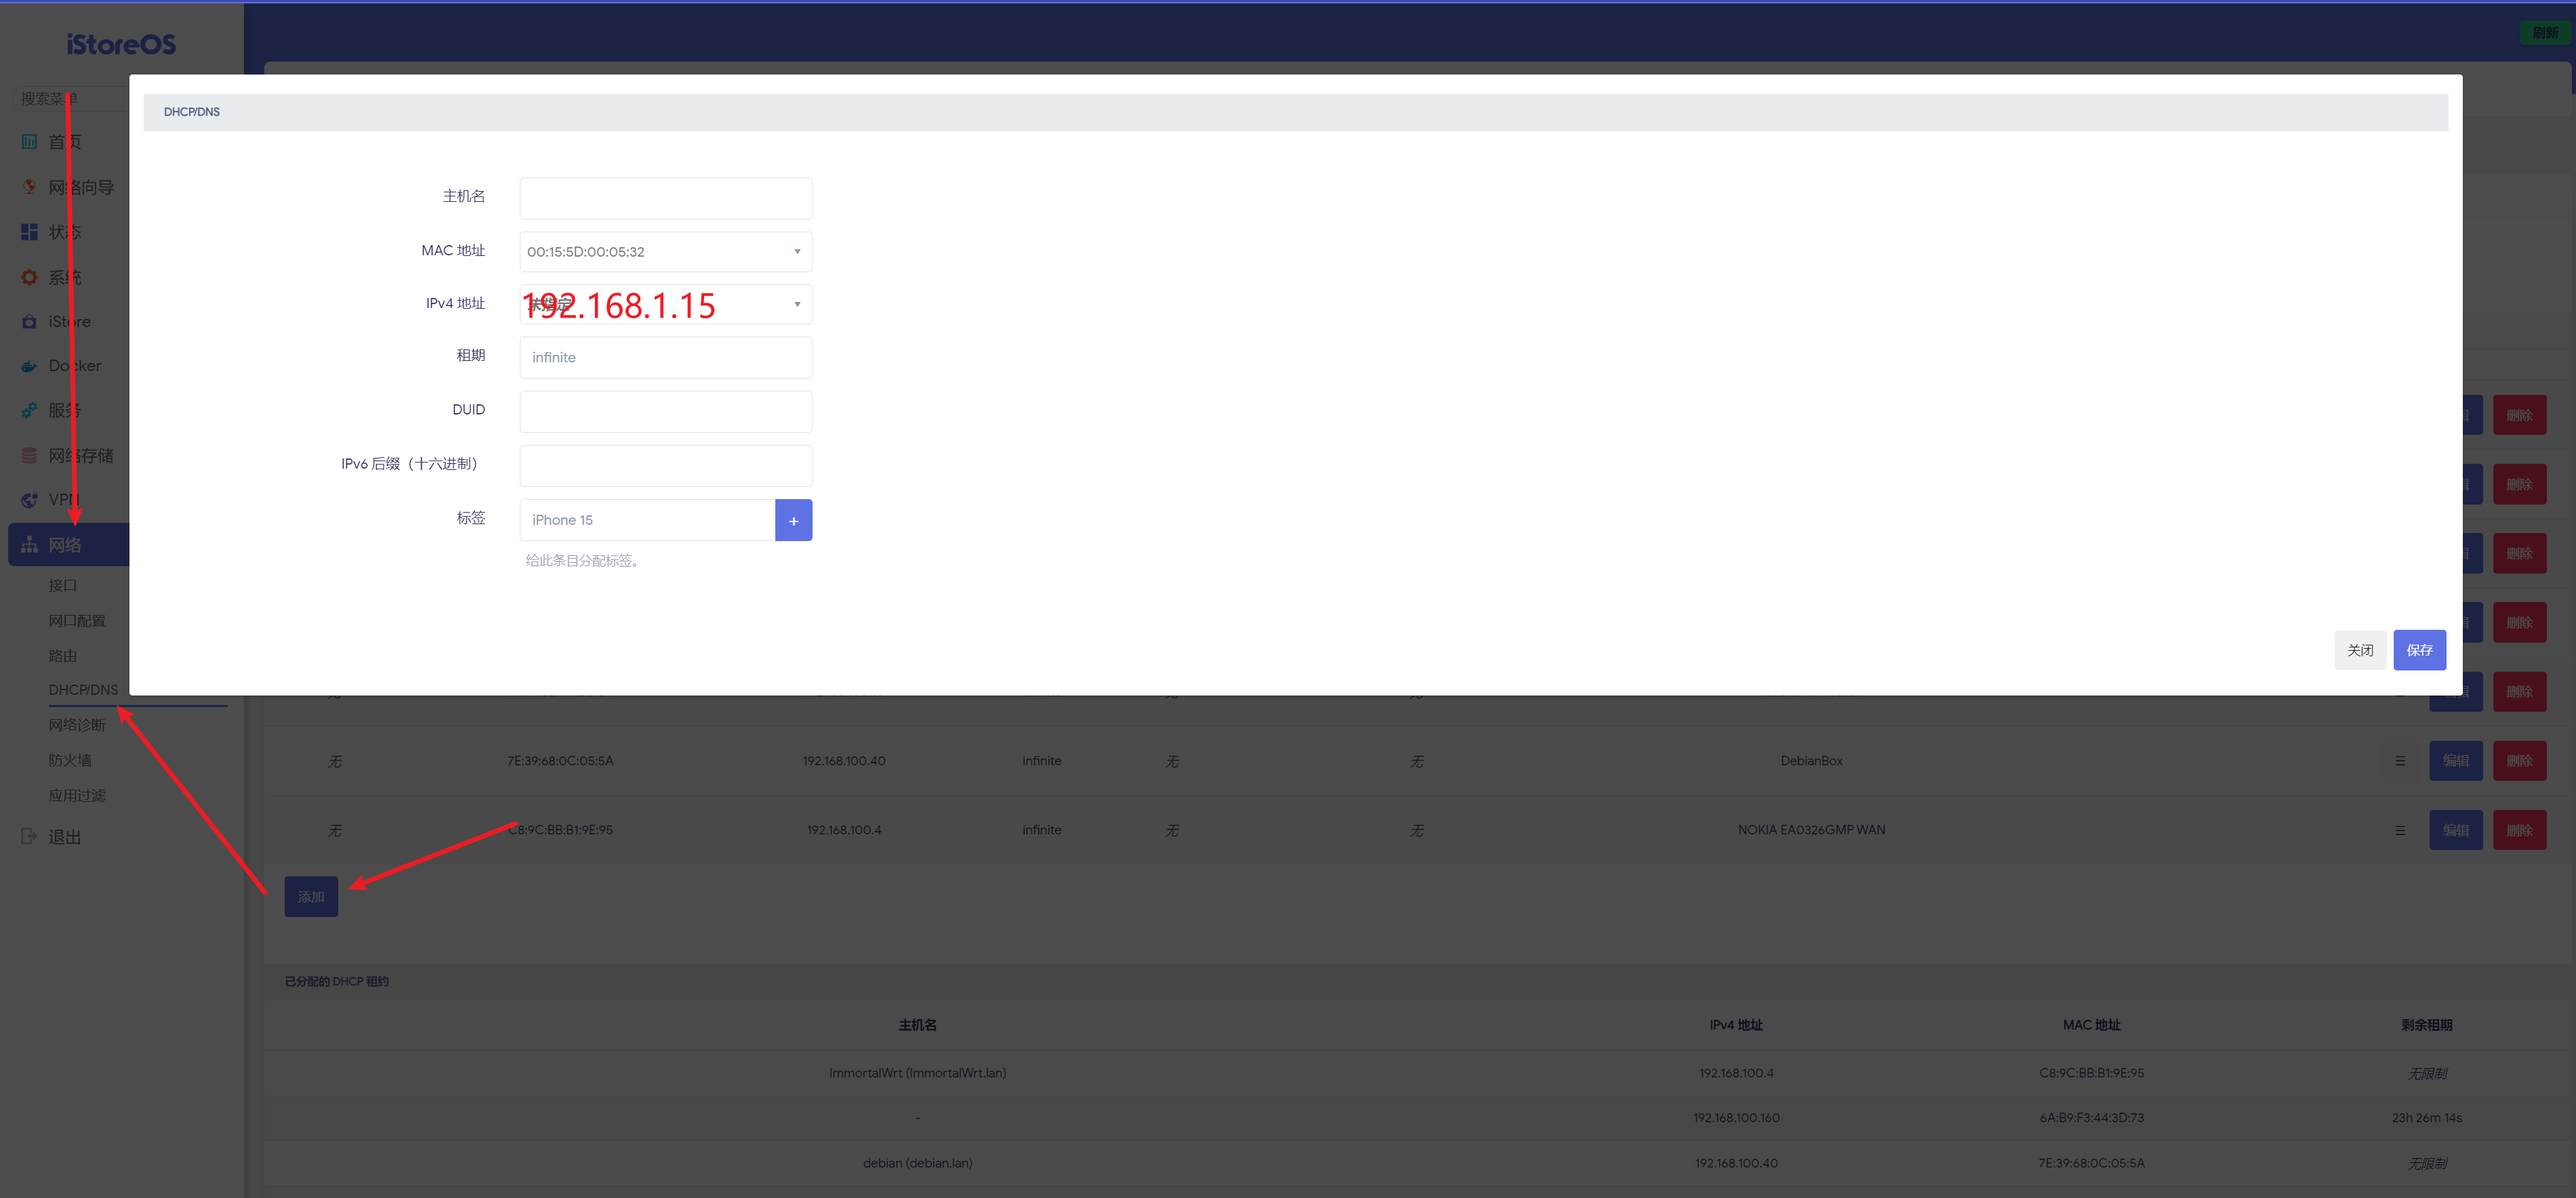
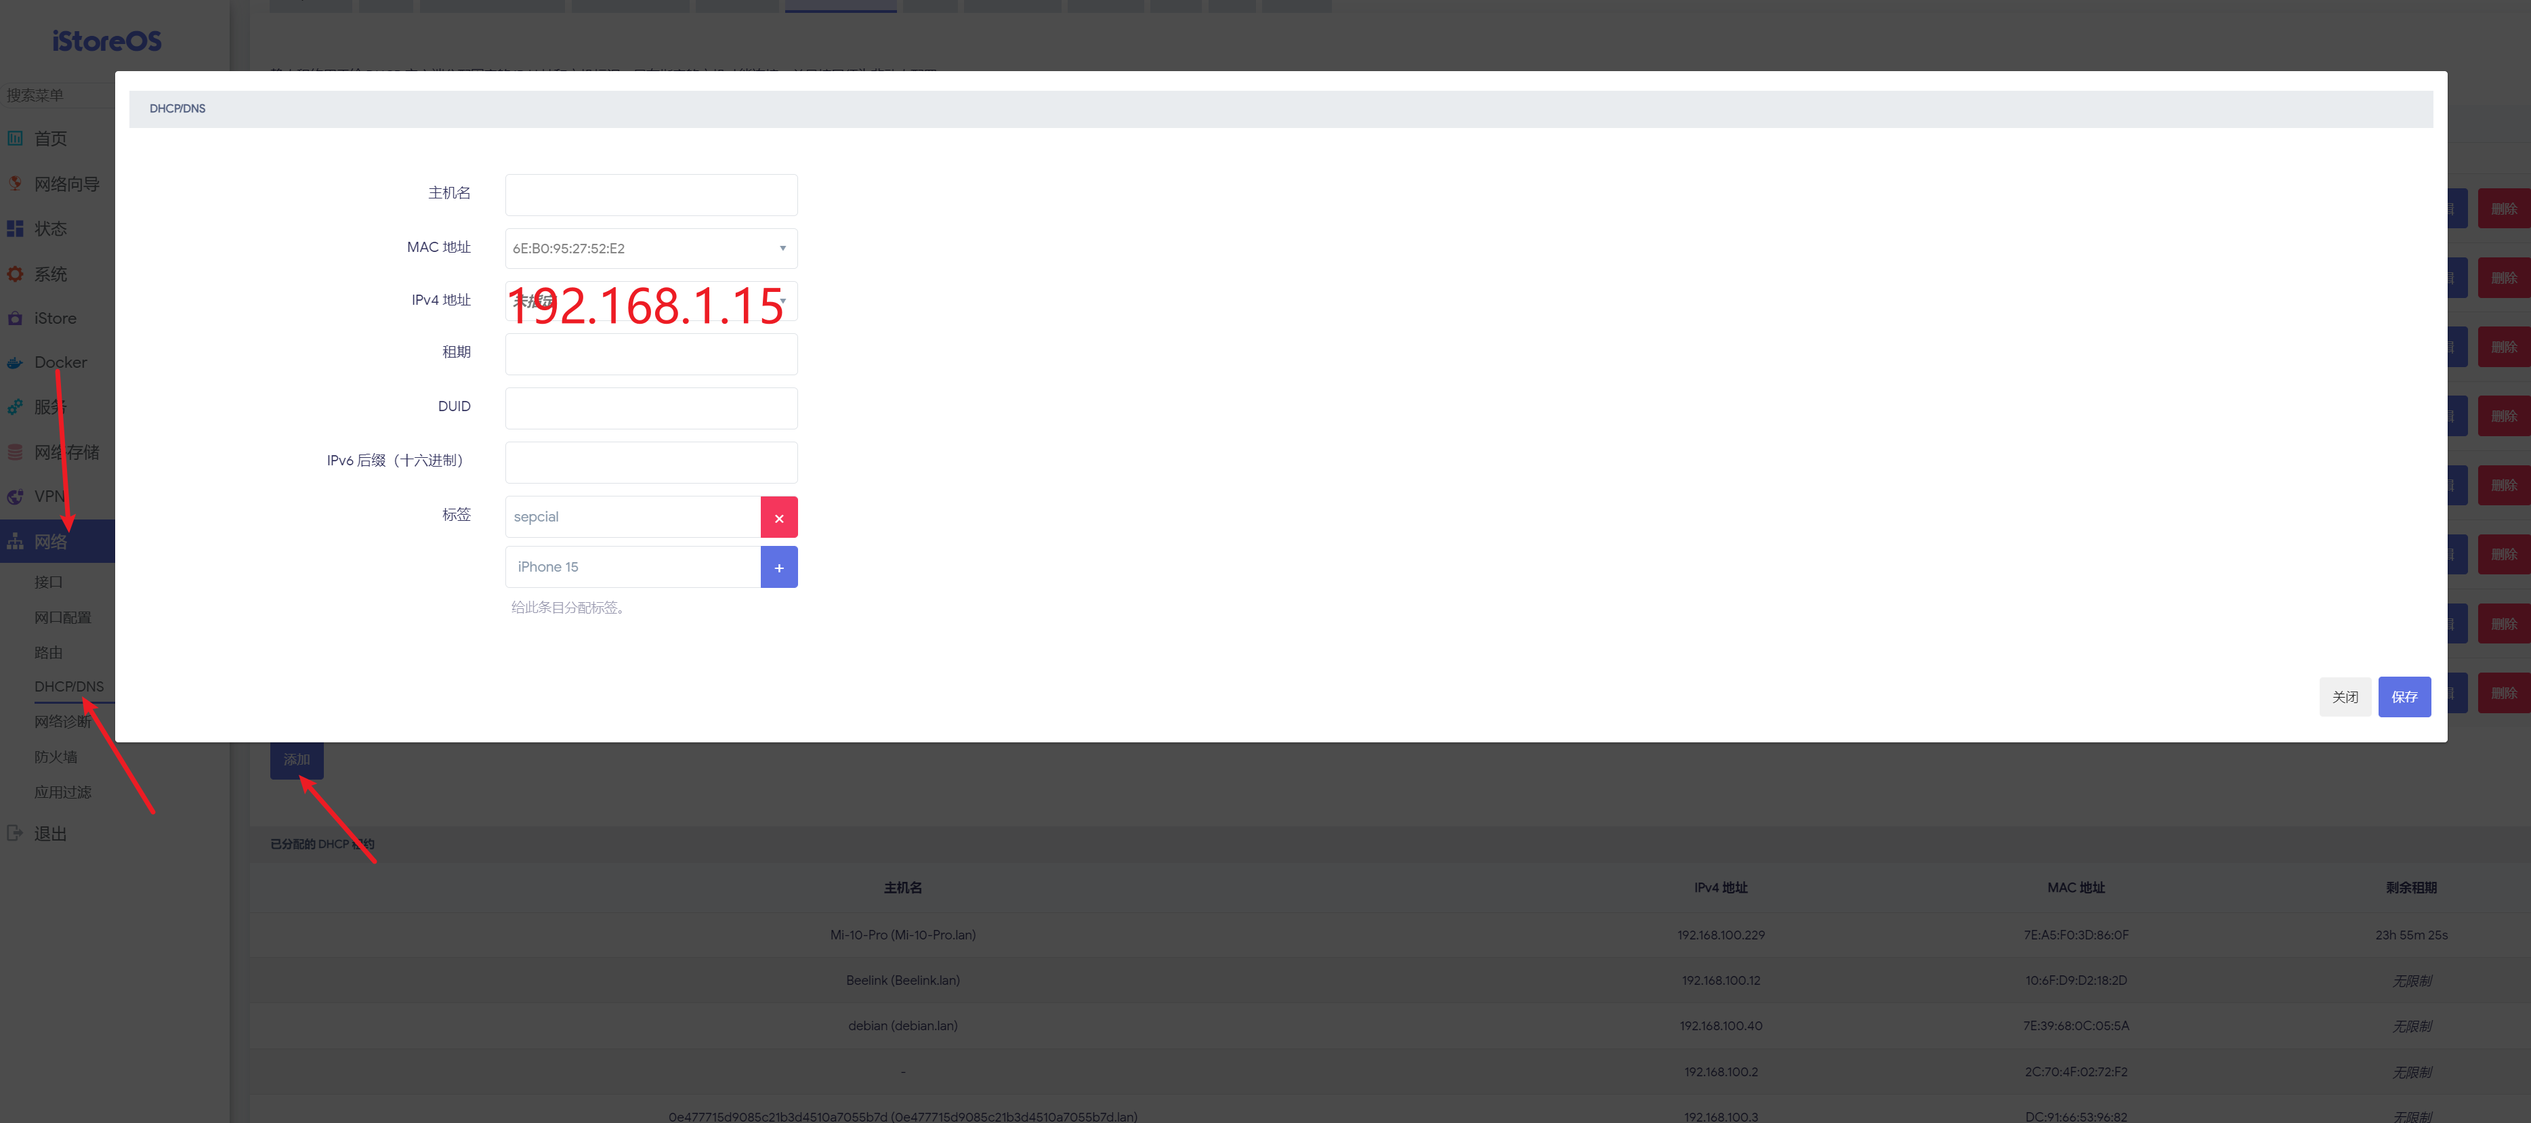
feat: add .

diff --git a/README.md b/README.md
@@ -280,6 +280,17 @@ src/gz immortalwrt_telephony https://mirrors.cernet.edu.cn/immortalwrt/releases/
 
     如果你觉得 150 设备不够，你就继续加大数字，但是主要最大的 IP 不能超过 254，因为 255 是广播地址。
 
+    然后需要给你的设备设置 Mac + IP + 标签 的绑定
+
+    openwrt 的 web 管理界面，进入网络-DHCP/DNS，点击添加，然后填写如下内容
+
+    ![dhcp-static-ip](assets/dhcp-static-ip.png)
+
+    如图设置的效果就是：这台 iPhone 的 IP 正好落在 192.168.1.11,192.168.1.50 范围内，注意最重要的标签，dnsmasq 是根据你设定的标签来指定网关和 DNS 的，所以这里要添加 2个标签 
+
+    - iPhone 15， 这个是给你自己之后管理起来方便记忆和标记的标签，可以随便起
+    - special，这个是给 dnsmasq 使用的，dnsmasq 会根据这个标签来指定网关和 DNS
+
     然后需要 ssh 连接到主路由
 
     ```sh
@@ -294,10 +305,11 @@ src/gz immortalwrt_telephony https://mirrors.cernet.edu.cn/immortalwrt/releases/
     添加如下内容：
 
     ```conf
-    dhcp-range=set:specialrange,192.168.1.11,192.168.1.50
-    dhcp-option=tag:specialrange,option:router,192.168.1.2
-    dhcp-option=tag:specialrange,option:dns-server,192.168.1.2
+    dhcp-option=tag:special,option:router,192.168.1.2
+    dhcp-option=tag:special,option:dns-server,192.168.1.2
     ```
+
+    注意 `special` 是你刚才设定的标签名。
 
     然后重启服务
 
@@ -305,11 +317,7 @@ src/gz immortalwrt_telephony https://mirrors.cernet.edu.cn/immortalwrt/releases/
     /etc/init.d/dnsmasq restart
     ```
 
-    最后你需要使用 openwrt 的 web 管理界面，进入网络-接口，点击添加，然后填写如下内容
-
-    ![dhcp-static-ip](assets/dhcp-static-ip.png)
-
-    如图设置的效果就是：这台 iPhone 的 IP 正好落在 192.168.1.11,192.168.1.50 范围内，那么 dnsmasq 就会为它指派网关和 DNS `192.168.1.2`，这样 iPhone 就可以使用旁路由的网关了。
+    以后，你还想新增设备能被分配旁路网关，那么你只需要跟上文一样，设置 Mac + IP + 标签绑定，并且一定要记得给设备添加 `special` 标签即可。
 
     另外旁路由（副路由）还有一些设置
     
